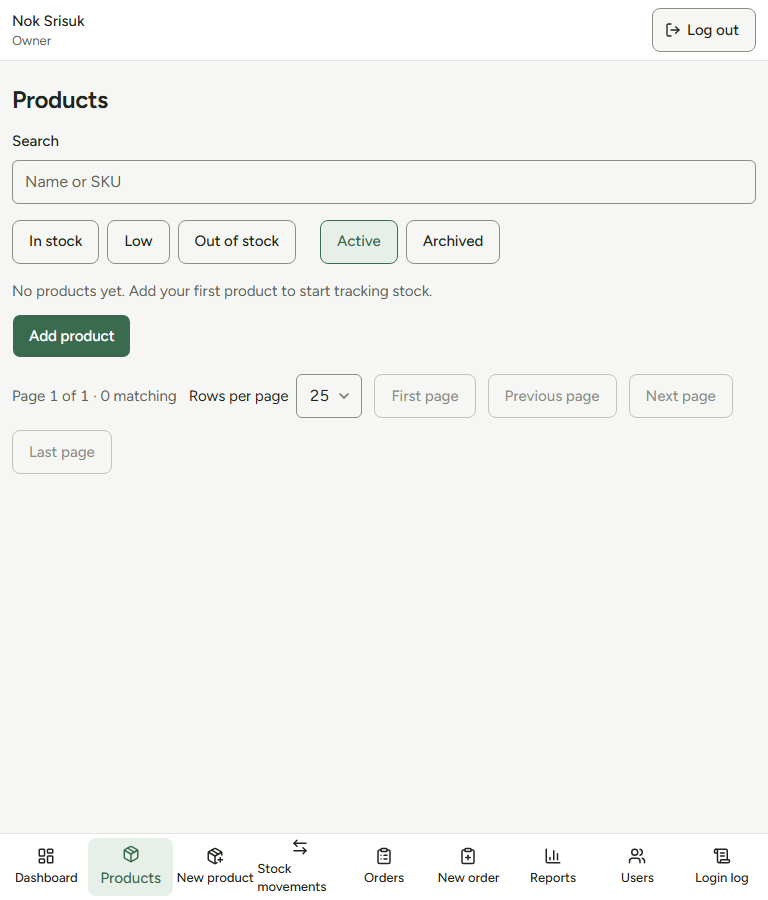
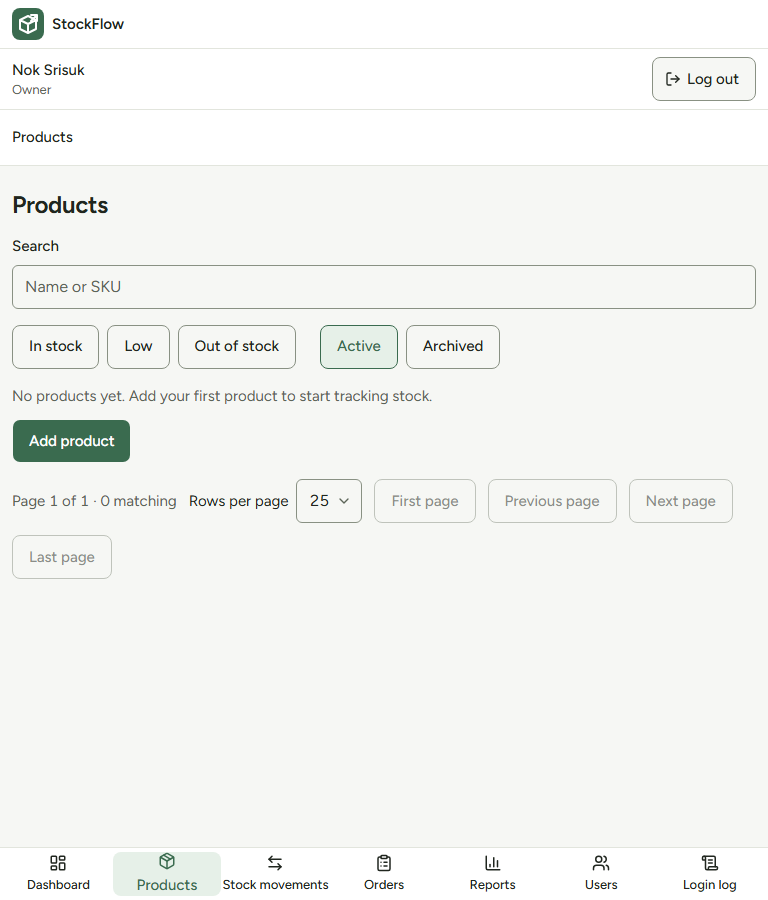
docs: refresh paging evidence with integrated navigation (Refs #38)

diff --git a/docs/design/paging/README.md b/docs/design/paging/README.md
@@ -1,5 +1,5 @@
 # Paging evidence
 
-Screenshots captured by `e2e/paging.spec.ts` and `e2e/reports.spec.ts` at 375, 768, 1024 and 1440 px. Each filename identifies the screen and viewport width. Paging was scrolled into view to show wrapping and unavailable directions. The existing shell is outside ticket #38.
+Screenshots captured by `e2e/paging.spec.ts` and `e2e/reports.spec.ts` at 375, 768, 1024 and 1440 px. Each filename identifies the screen and viewport width. Paging was scrolled into view to show wrapping and unavailable directions. Refreshed after rebasing onto navigation PR #39 (`d75ffbaa931a5c92701ff9c5ee524cce9c6ffdbb`), so the evidence shows the integrated shell and paging. Both navigation and paging design additions remain in `docs/design.md`.
 
 UI/UX pre-delivery check: existing tokens and type retained; phone controls use 44 px targets; native buttons and select preserve keyboard focus and accessible names; disabled directions remain visible; counts and older-page context use words; no horizontal page overflow at any target width. Light theme and reduced-motion behavior are unchanged.
